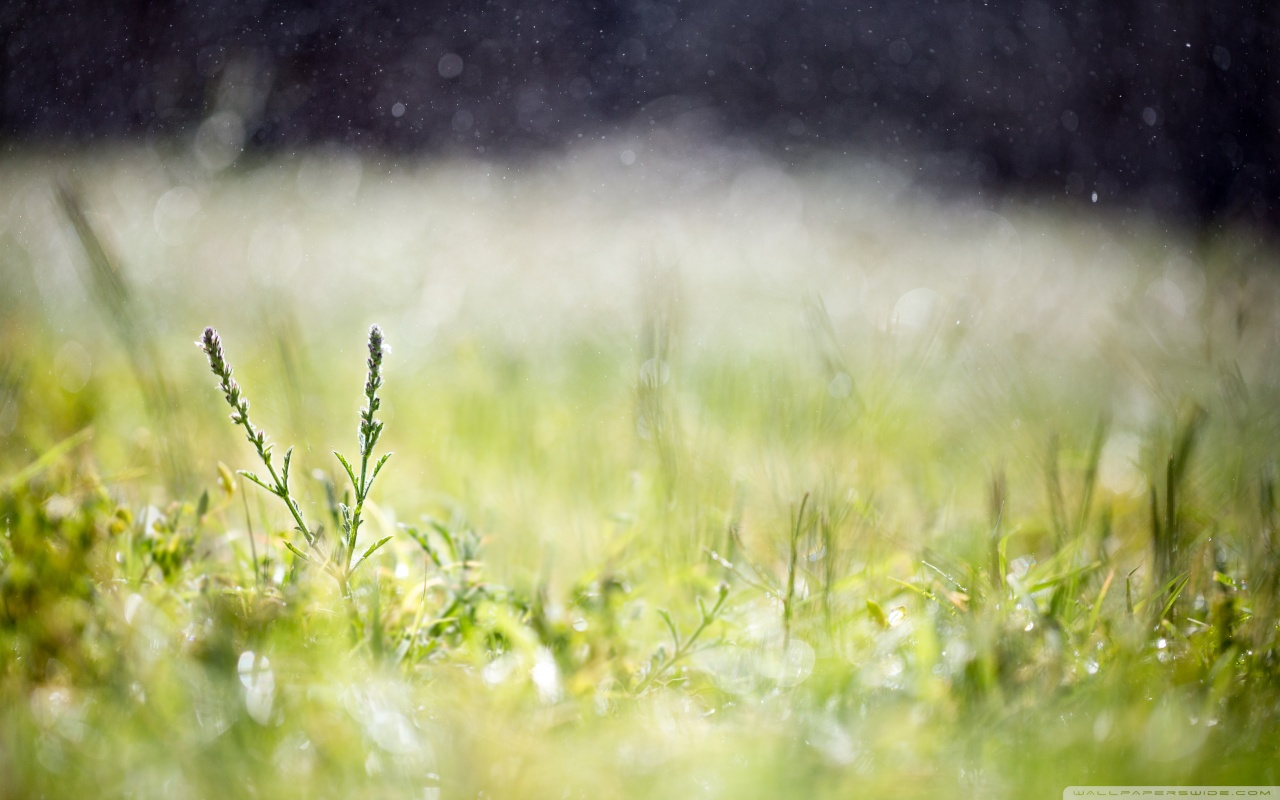
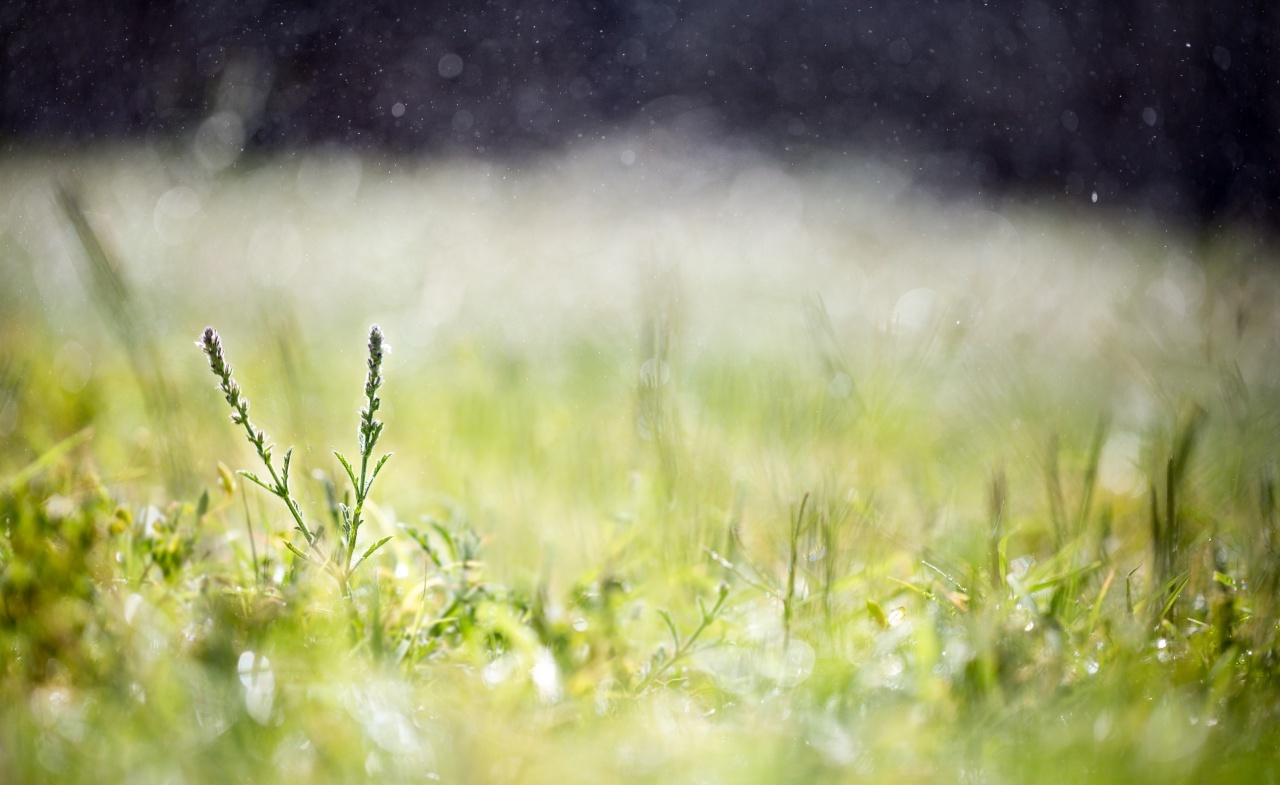
accidently deleted background pic

diff --git a/flaskr/static/style.css b/flaskr/static/style.css
@@ -4,7 +4,7 @@ body{
 	font-family: 'Slabo 27px', serif;
 }
 
-{
+#top {
 	height: 50%;
 	width: 100%;
 	background: url(../static/back.jpg);
